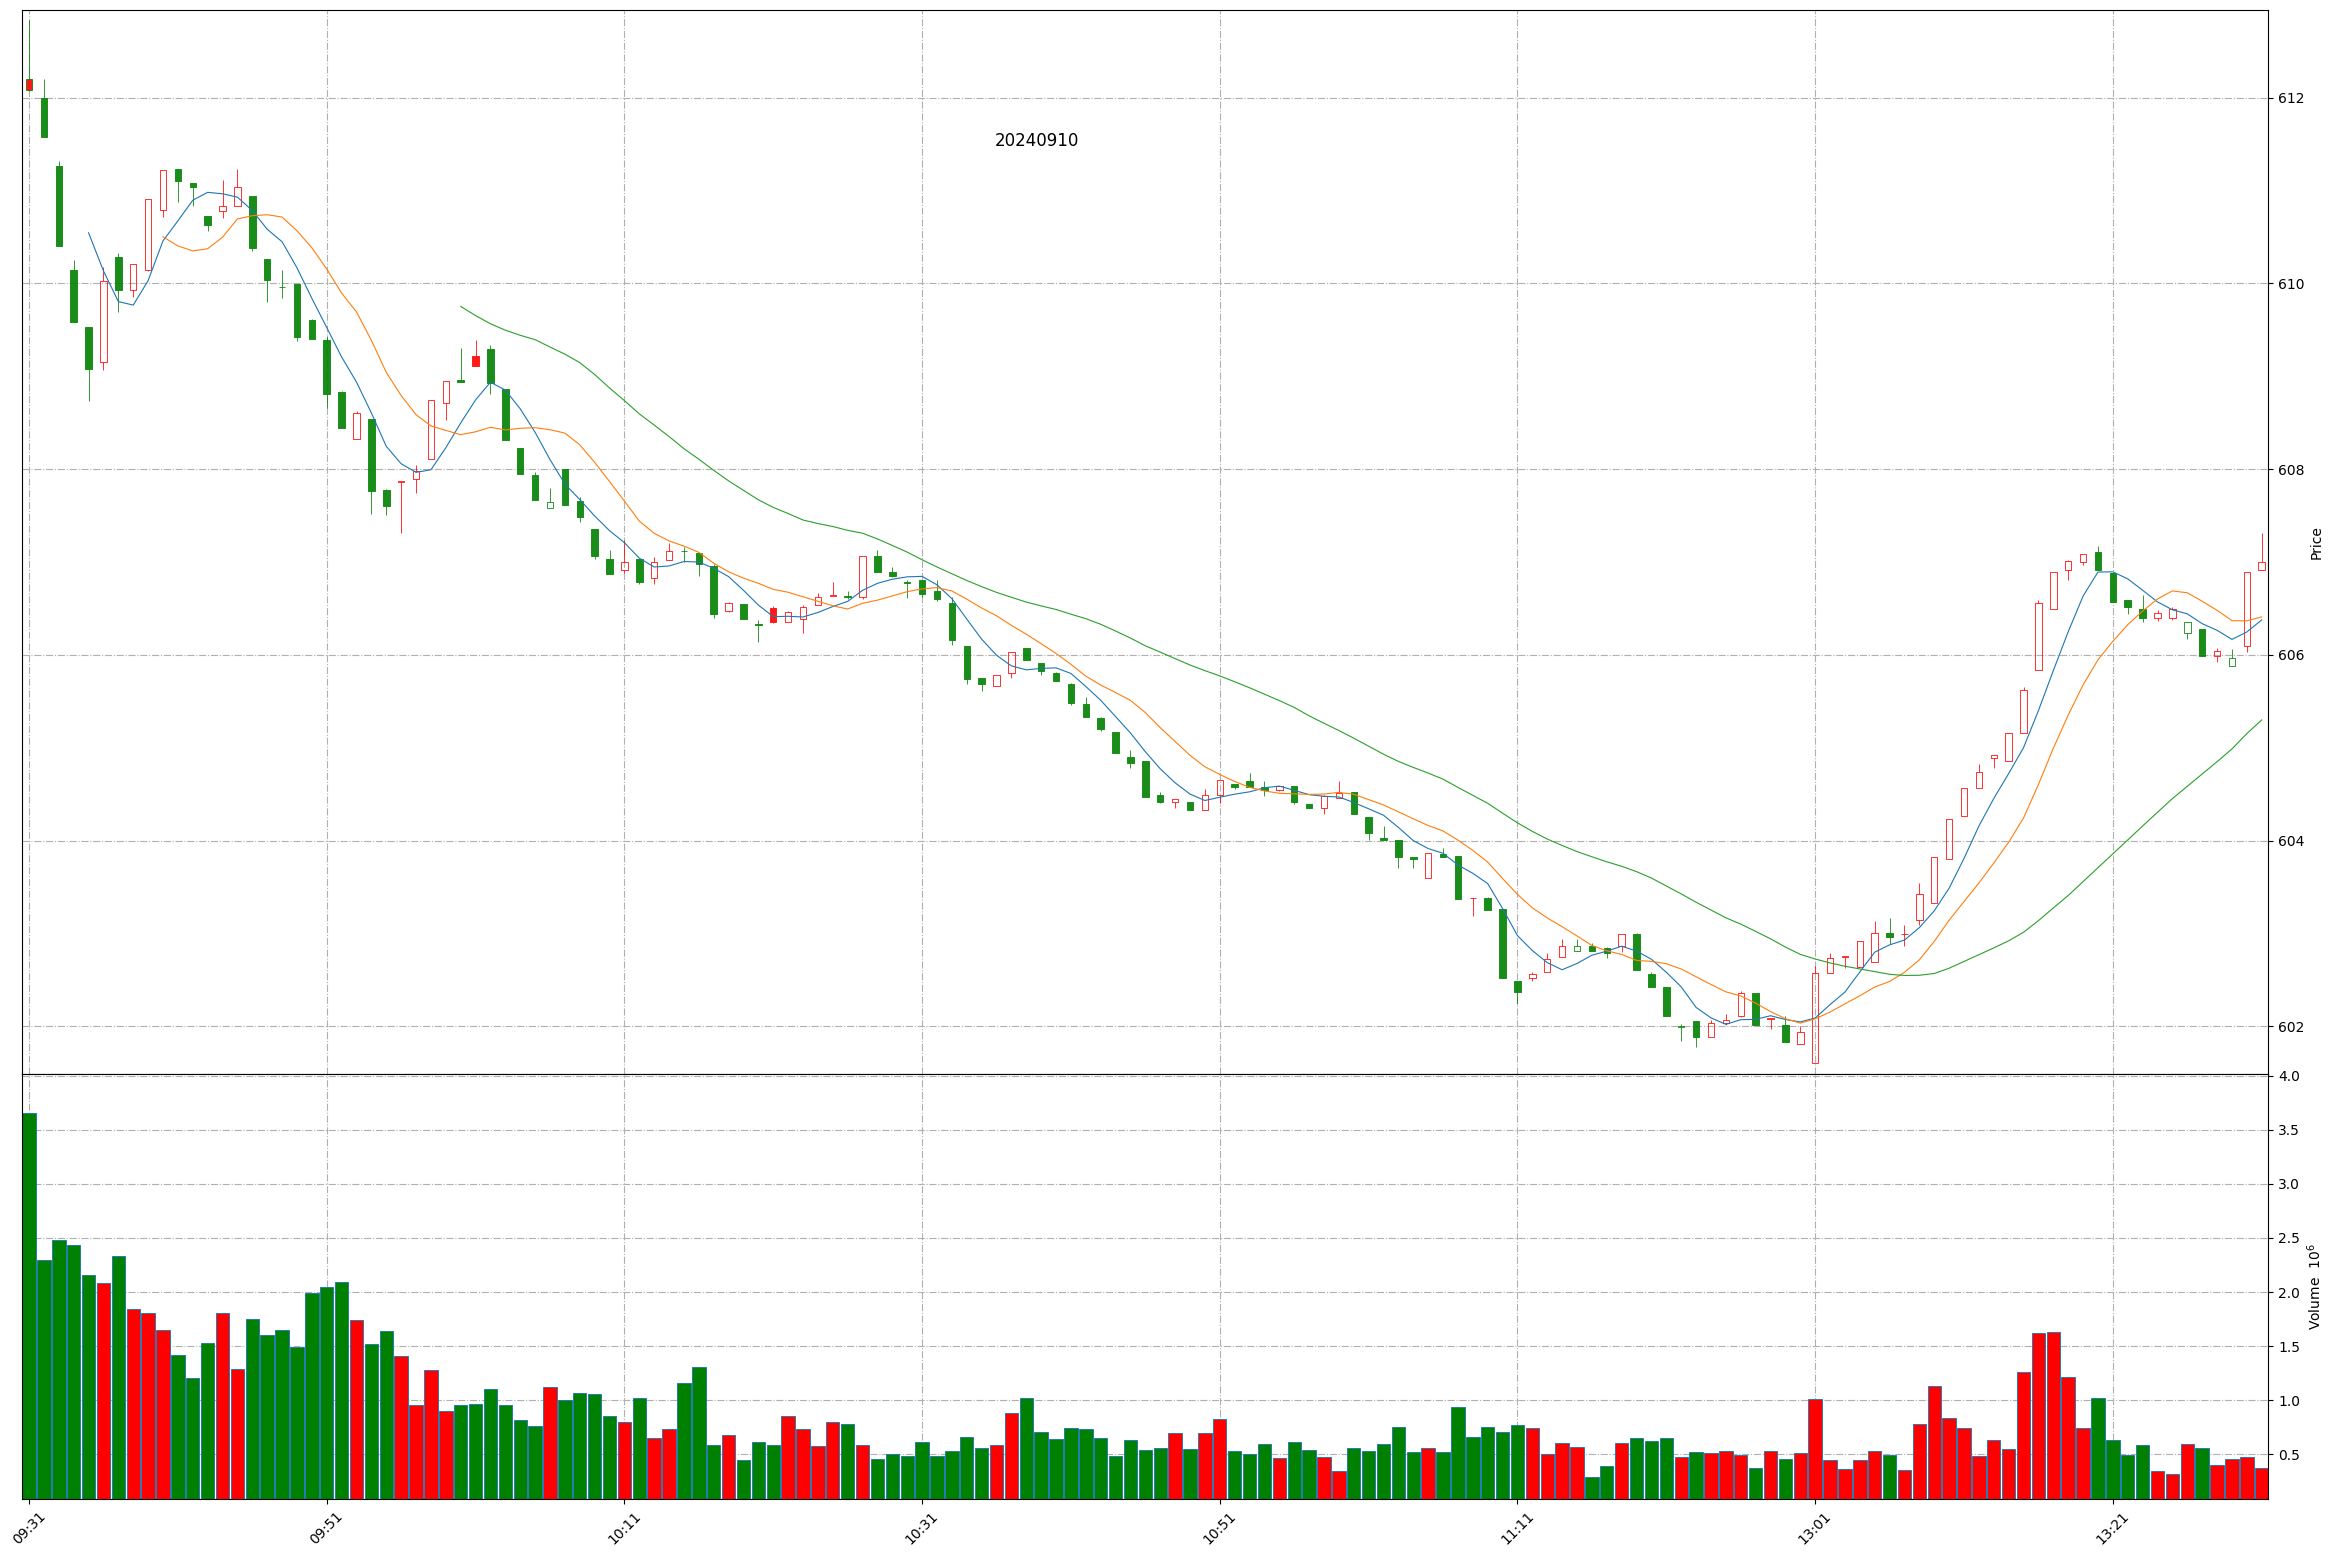
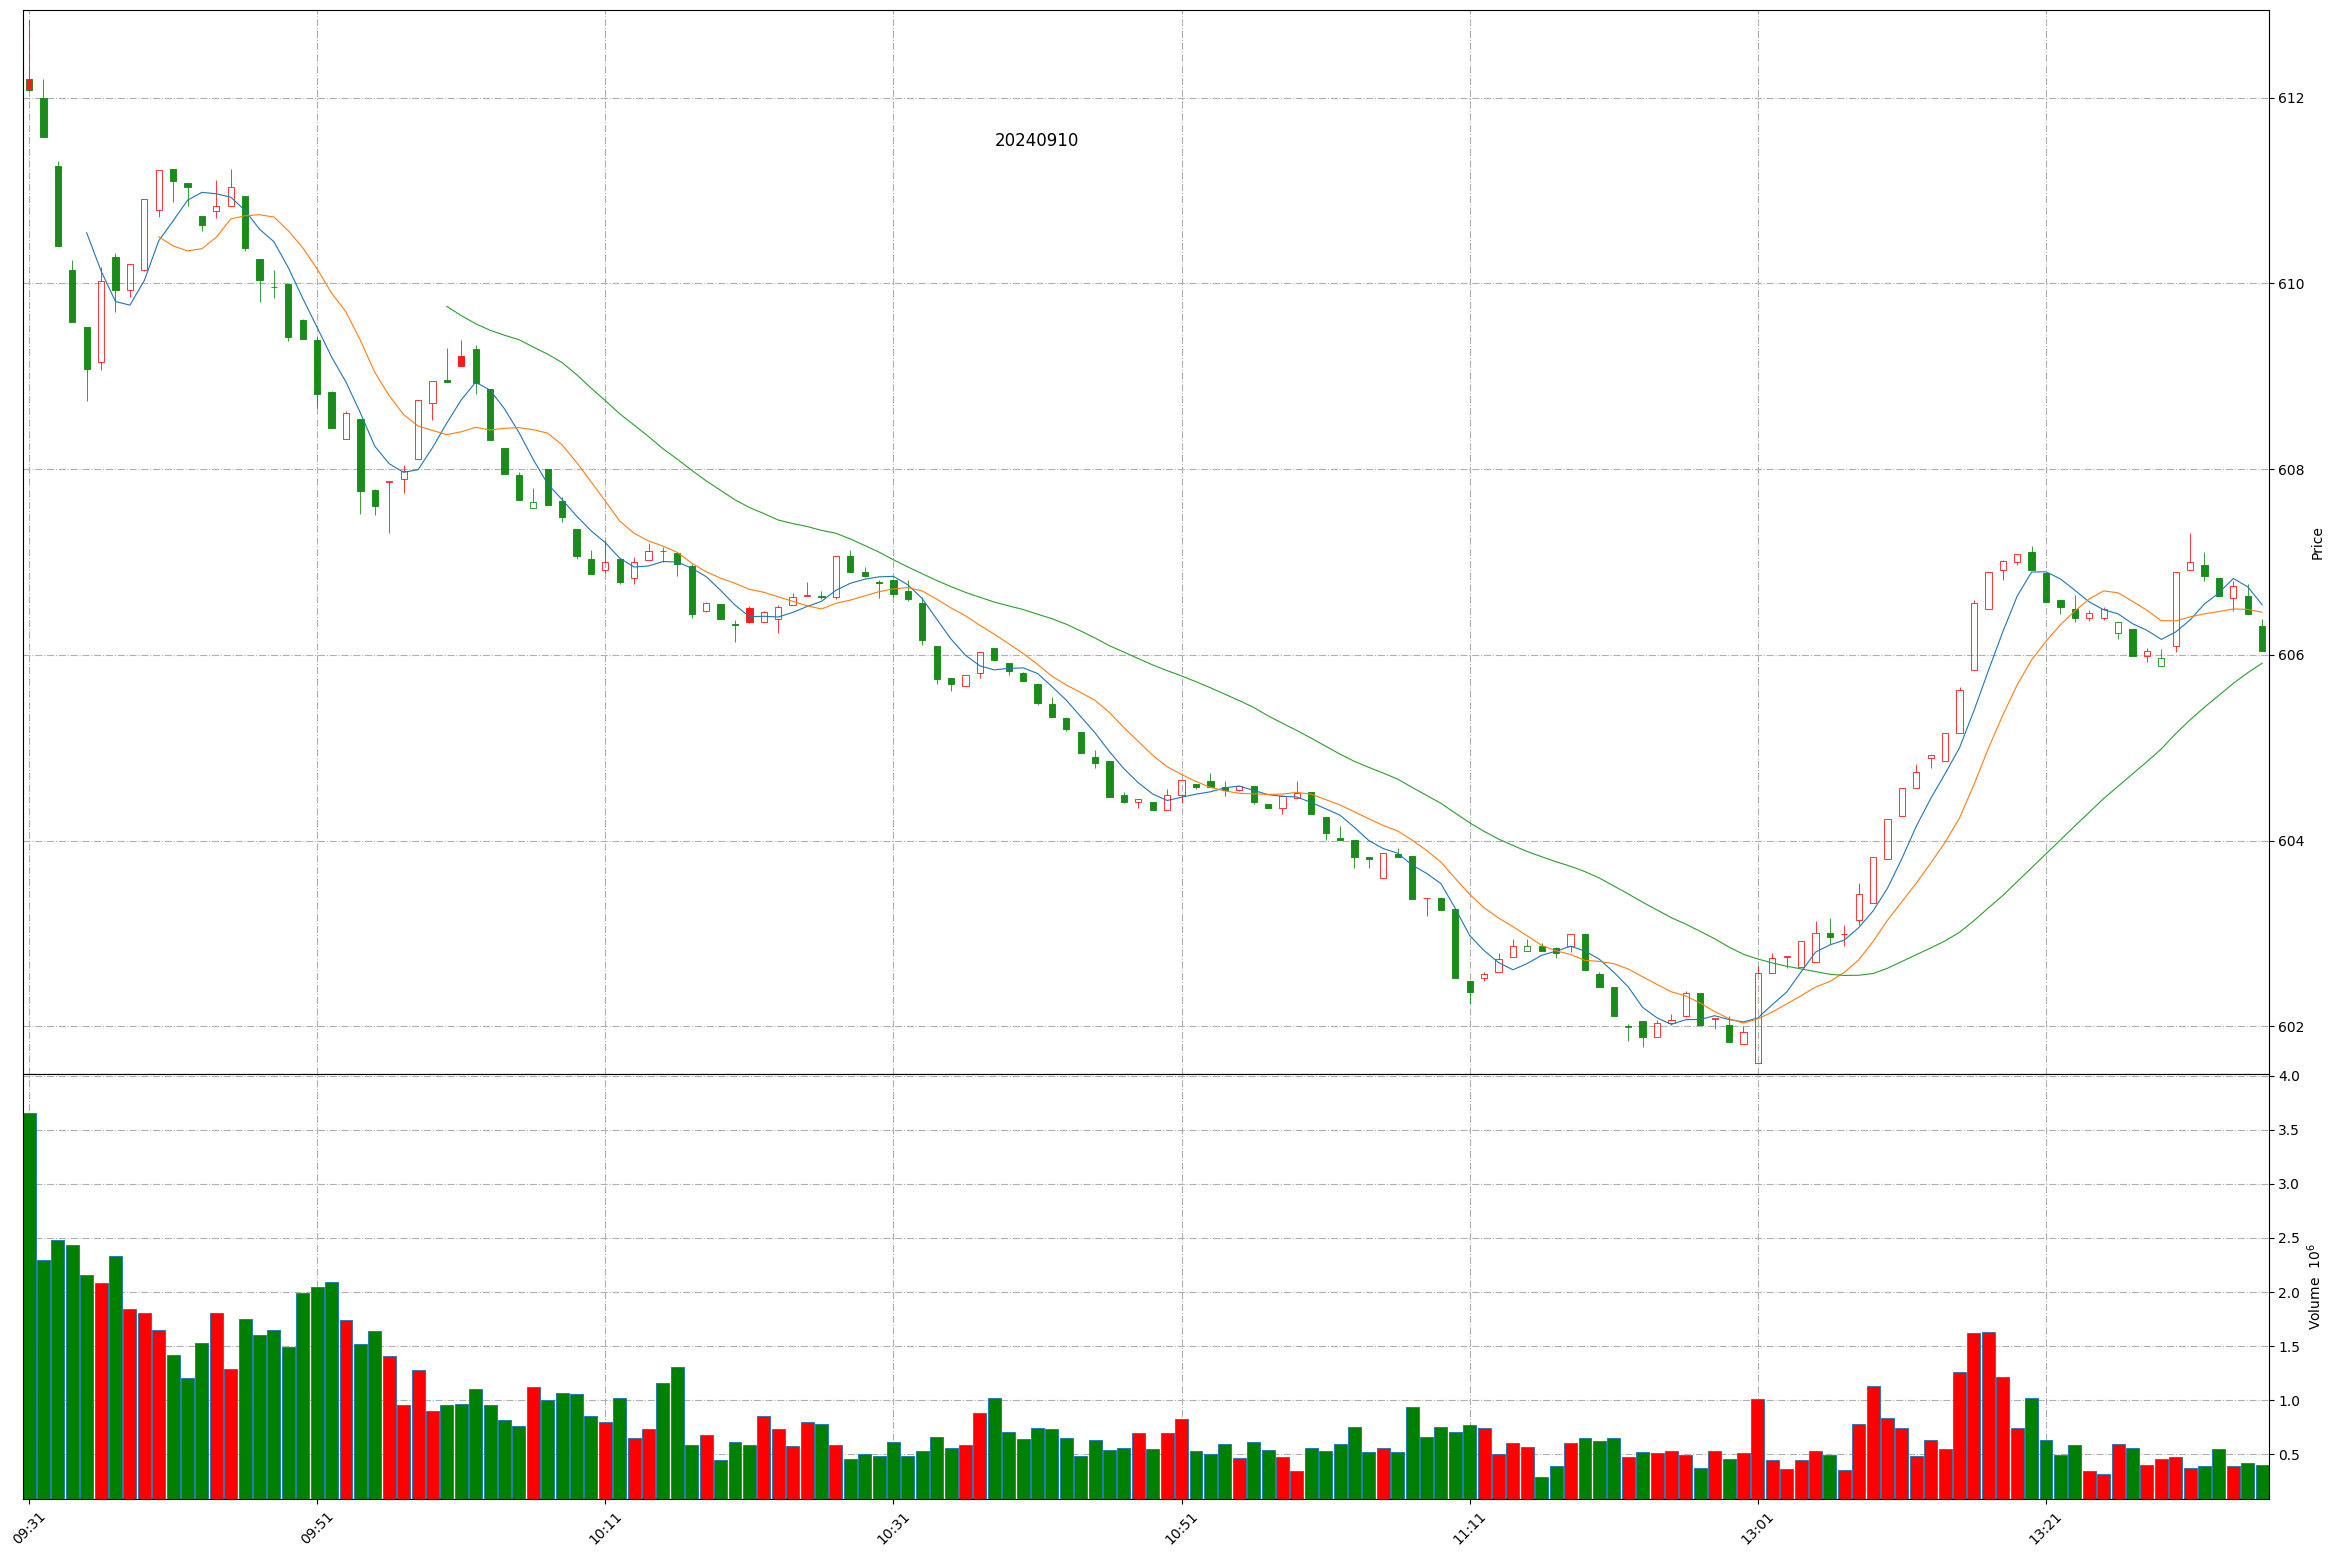
Github action update at 2024-09-10 13:36:15.

diff --git a/README.md b/README.md
@@ -1,11 +1,11 @@
 
 # Daily-A-share-market-quotes 每日 A 股指数（5min 更新）- 20240910
 
-### 上证指数 20240910 13:31
+### 上证指数 20240910 13:36
 ![](./fig/2024/9/20240910-sh000001.png)
 
-### 深证成指 20240910 13:31
+### 深证成指 20240910 13:36
 ![](./fig/2024/9/20240910-sz399001.png)
 
-### 北证50 20240910 13:31
+### 北证50 20240910 13:36
 ![](./fig/2024/9/20240910-bj899050.png)
